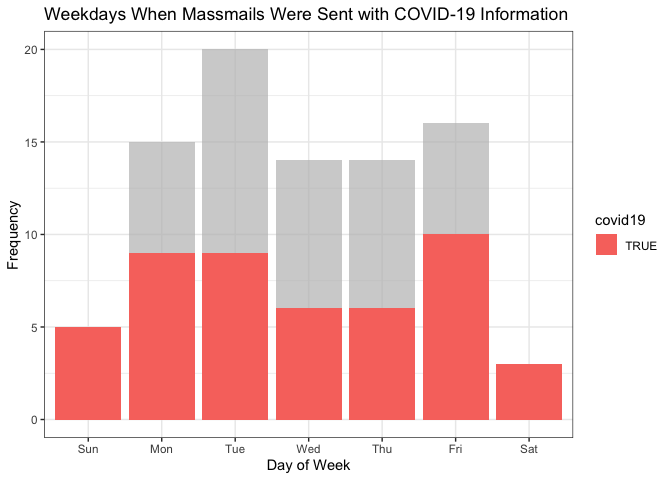
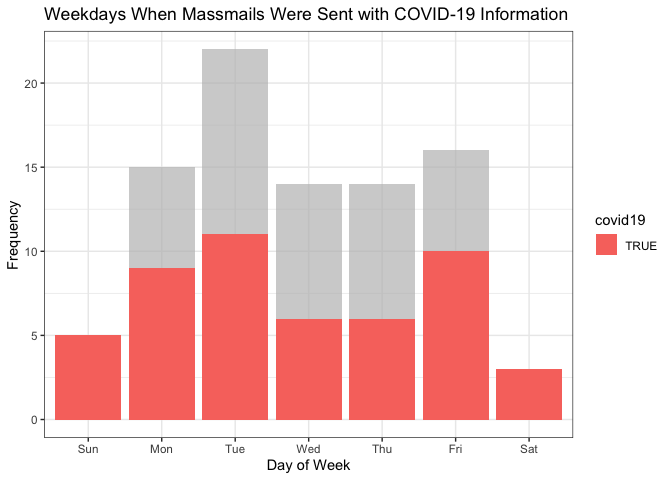
Re-build README.Rmd and Graphs

diff --git a/README.md b/README.md
@@ -17,7 +17,7 @@ The archive may be viewed here:
 
 <https://massmail.illinois.edu/massmailArchive>
 
-Data has **1129** observations and **7** variables:
+Data has **1131** observations and **7** variables:
 
   - `datetime`: Date and time when the email was sent in the form of
     `YYYY-MM-DD HMS` with either CDT or CST.
@@ -205,16 +205,16 @@ head(most_popular_words, 10) %>%
 
 | word        | freq |
 | :---------- | ---: |
-| students    |  326 |
-| university  |  260 |
-| campus      |  249 |
-| faculty     |  151 |
-| illinois    |  143 |
-| information |  137 |
-| community   |  131 |
-| student     |  130 |
-| staff       |  127 |
-| health      |  120 |
+| students    |  332 |
+| university  |  269 |
+| campus      |  257 |
+| faculty     |  159 |
+| illinois    |  154 |
+| information |  138 |
+| community   |  134 |
+| staff       |  131 |
+| student     |  131 |
+| health      |  124 |
 
 #### Wordcloud
 
